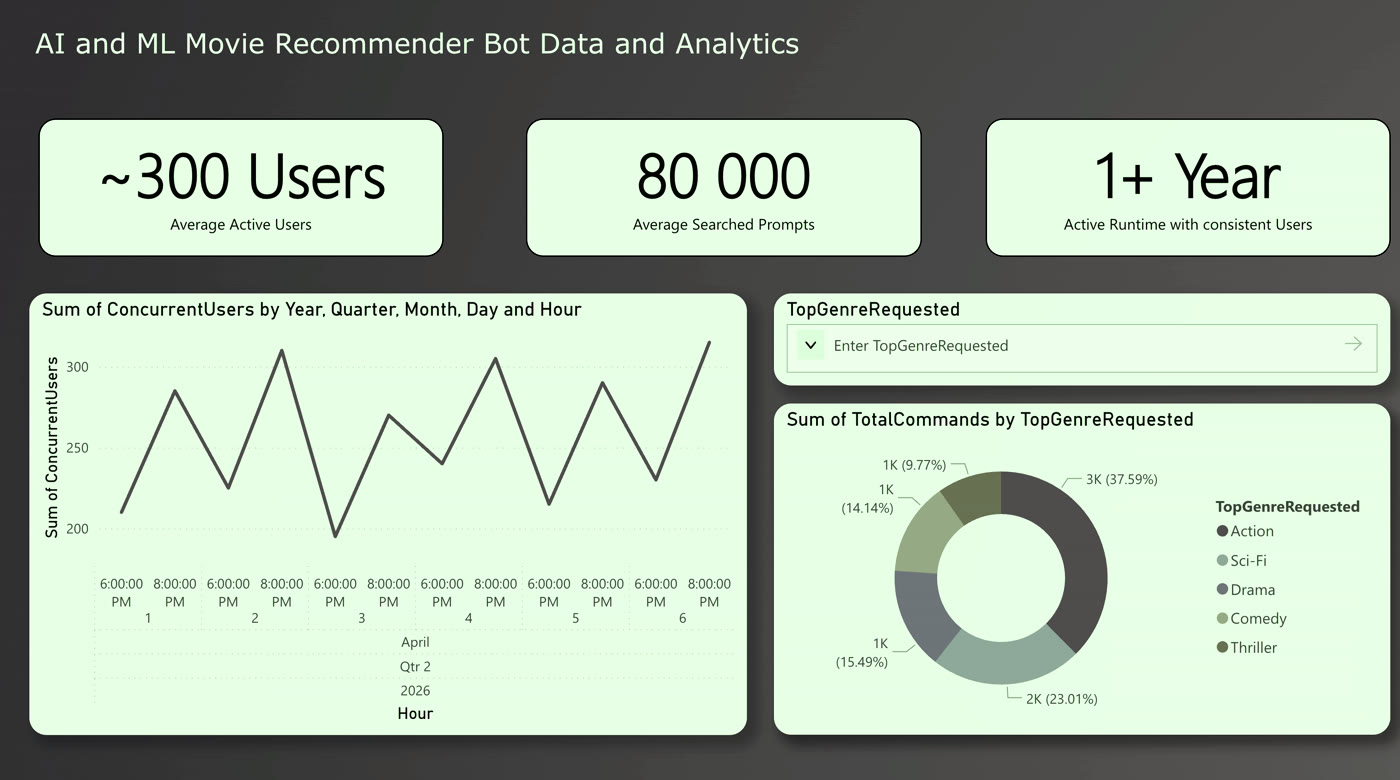
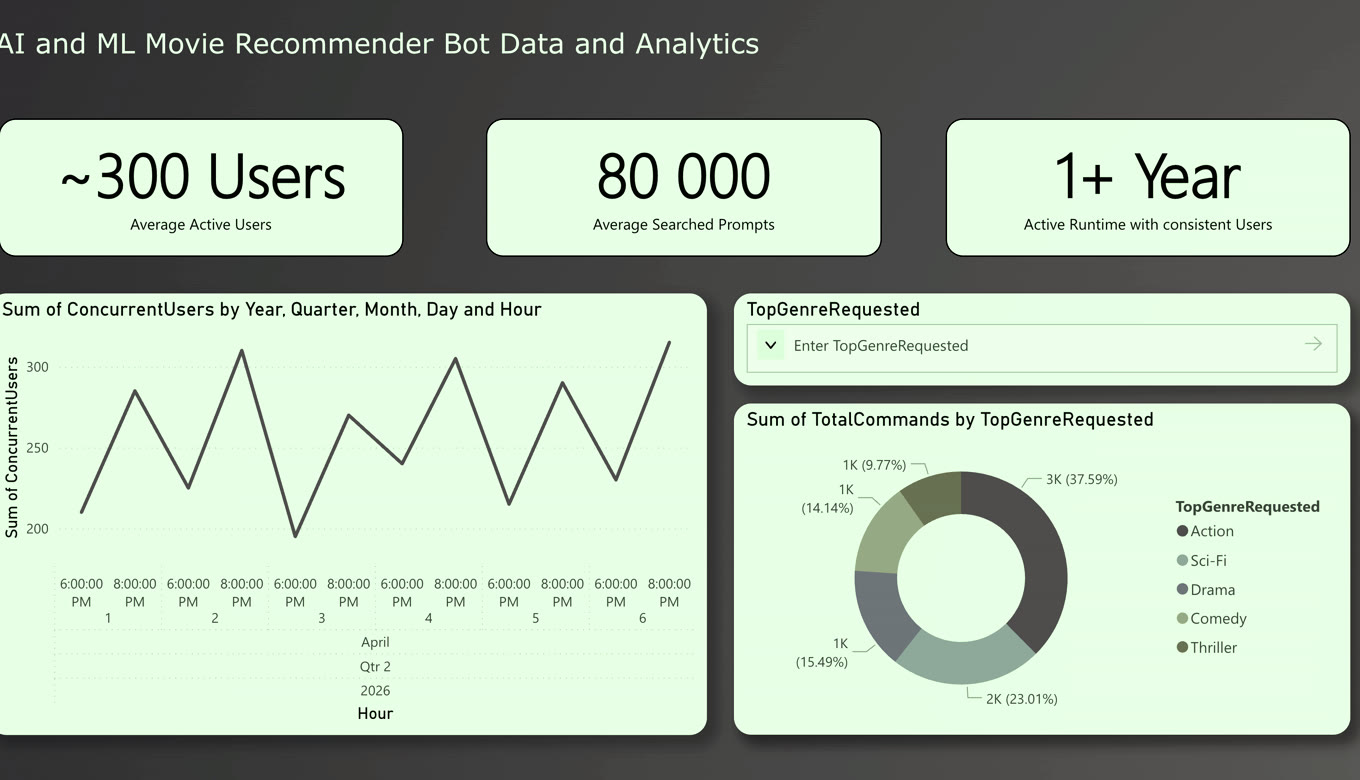
Brighten mobile hero portrait and recrop Discord still
Lift mobile media out from under the nav, reduce scrim so the face
reads clearly above the name, and trim the Discord analytics left edge.

diff --git a/style.css b/style.css
@@ -336,9 +336,9 @@ button {
   position: absolute;
   inset: 0;
   background:
-    linear-gradient(to top, rgba(11, 13, 16, 0.97) 0%, rgba(11, 13, 16, 0.62) 38%, rgba(11, 13, 16, 0.2) 62%, rgba(11, 13, 16, 0.4) 100%),
-    radial-gradient(ellipse 70% 55% at 55% 28%, transparent 25%, rgba(11, 13, 16, 0.55) 100%),
-    linear-gradient(90deg, rgba(11, 13, 16, 0.55) 0%, transparent 42%);
+    linear-gradient(to top, rgba(11, 13, 16, 0.96) 0%, rgba(11, 13, 16, 0.55) 36%, rgba(11, 13, 16, 0.12) 58%, rgba(11, 13, 16, 0.28) 100%),
+    radial-gradient(ellipse 65% 50% at 55% 26%, transparent 30%, rgba(11, 13, 16, 0.4) 100%),
+    linear-gradient(90deg, rgba(11, 13, 16, 0.4) 0%, transparent 45%);
 }
 
 .hero-content {
@@ -1009,25 +1009,26 @@ button {
     inset: auto;
     flex: 0 0 auto;
     width: 100%;
-    height: min(52svh, 420px);
-    min-height: 280px;
+    height: min(56svh, 460px);
+    min-height: 300px;
+    margin-top: var(--nav-h);
   }
 
   .hero-media video {
-    object-position: center 12%;
+    object-position: center 8%;
+    filter: brightness(1.12) contrast(1.04);
   }
 
   .hero-scrim {
     background:
-      linear-gradient(to bottom, rgba(11, 13, 16, 0.35) 0%, transparent 35%, rgba(11, 13, 16, 0.55) 78%, var(--bg-0) 100%),
-      radial-gradient(ellipse at 50% 30%, transparent 30%, rgba(11, 13, 16, 0.35) 100%);
+      linear-gradient(to bottom, transparent 0%, transparent 55%, rgba(11, 13, 16, 0.35) 82%, var(--bg-0) 100%);
   }
 
   .hero-content {
     position: relative;
     z-index: 1;
     flex: 1 1 auto;
-    padding: 1.25rem 1.25rem 2.75rem;
+    padding: 1.1rem 1.25rem 2.75rem;
     margin: 0;
     max-width: none;
     background: linear-gradient(180deg, var(--bg-0) 0%, var(--bg-1) 100%);
